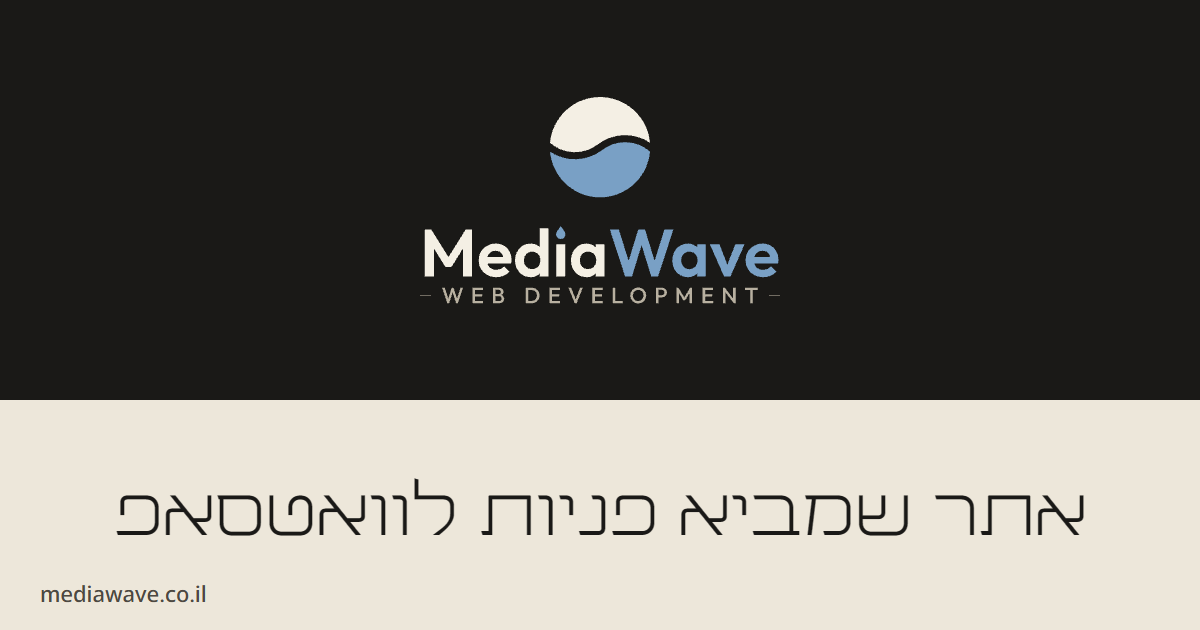
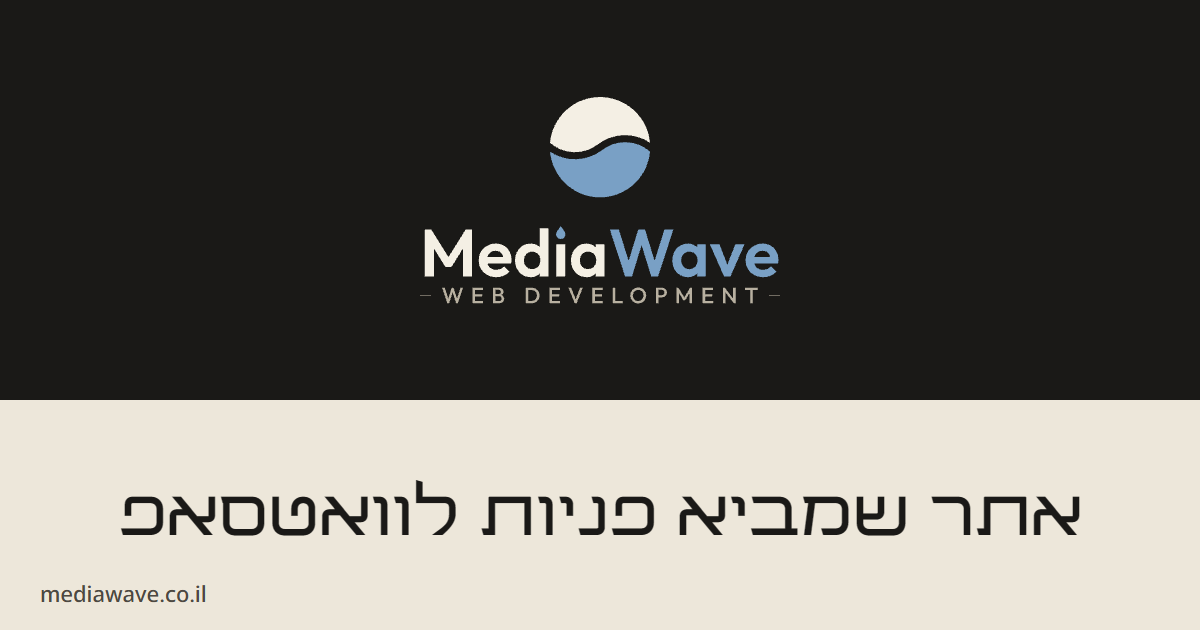
feat: the headings in the Bold of mediawave-font1 (D218)
Every heading moves from Regular to Bold, the preload and the Arial fallback
follow it, and the footer line drops its Thin cut.

Changed region(s): [[0.0925, 0.754, 0.925, 0.8444]]

diff --git a/src/look/shot/shot-fonts.css b/src/look/shot/shot-fonts.css
@@ -12,8 +12,8 @@
 @font-face { font-family: "mediawave-font1"; src: url("/fonts/mediawave-font1-Thin.woff2") format("woff2"); font-weight: 100; font-display: swap; size-adjust: 83%; unicode-range: U+0020-0022, U+0025, U+0027-003B, U+003F, U+0041-005A, U+0061-007A, U+00A0, U+05BE, U+05D0-05EA, U+05F3-05F4, U+200E-200F, U+2013-2014, U+2018-2019, U+201C-201D, U+2026, U+20AA; }
 @font-face { font-family: "mediawave-font1"; src: url("/fonts/mediawave-font1-Regular.woff2") format("woff2"); font-weight: 400; font-display: swap; size-adjust: 83%; unicode-range: U+0020-0022, U+0025, U+0027-003B, U+003F, U+0041-005A, U+0061-007A, U+00A0, U+05BE, U+05D0-05EA, U+05F3-05F4, U+200E-200F, U+2013-2014, U+2018-2019, U+201C-201D, U+2026, U+20AA; }
 @font-face { font-family: "mediawave-font1"; src: url("/fonts/mediawave-font1-Bold.woff2") format("woff2"); font-weight: 700; font-display: swap; size-adjust: 83%; unicode-range: U+0020-0022, U+0025, U+0027-003B, U+003F, U+0041-005A, U+0061-007A, U+00A0, U+05BE, U+05D0-05EA, U+05F3-05F4, U+200E-200F, U+2013-2014, U+2018-2019, U+201C-201D, U+2026, U+20AA; }
-/* Arial scaled to the face's measured Hebrew advance on the home headings (1.339 x 83%), so the swap moves no line. */
-@font-face { font-family: "mediawave-font1 Fallback"; src: local("Arial"), local("ArialMT"); font-weight: 100 900; size-adjust: 111.2%; ascent-override: 70.2%; descent-override: 22.4%; line-gap-override: 0%; unicode-range: U+0020-0022, U+0025, U+0027-003B, U+003F, U+0041-005A, U+0061-007A, U+00A0, U+05BE, U+05D0-05EA, U+05F3-05F4, U+200E-200F, U+2013-2014, U+2018-2019, U+201C-201D, U+2026, U+20AA; }
+/* Arial Bold scaled to the Bold's measured Hebrew advance on the home headings (1.302 x 83%), so the swap moves no line. */
+@font-face { font-family: "mediawave-font1 Fallback"; src: local("Arial Bold"), local("Arial-BoldMT"); font-weight: 100 900; size-adjust: 108.1%; ascent-override: 72.2%; descent-override: 23.0%; line-gap-override: 0%; unicode-range: U+0020-0022, U+0025, U+0027-003B, U+003F, U+0041-005A, U+0061-007A, U+00A0, U+05BE, U+05D0-05EA, U+05F3-05F4, U+200E-200F, U+2013-2014, U+2018-2019, U+201C-201D, U+2026, U+20AA; }
 
 @font-face { font-family: "MW Noto Fallback"; src: local("Arial"), local("ArialMT"); font-weight: 100 599; size-adjust: 104.6%; ascent-override: 102.1%; descent-override: 27.9%; line-gap-override: 0%; }
 @font-face { font-family: "MW Noto Fallback"; src: local("Arial"), local("ArialMT"); font-weight: 100 599; size-adjust: 109.1%; ascent-override: 97.9%; descent-override: 26.8%; line-gap-override: 0%; unicode-range: U+0590-05FF, U+200C-2010, U+20AA, U+25CC, U+FB1D-FB4F; }

diff --git a/src/look/sea/sea.css b/src/look/sea/sea.css
@@ -30,13 +30,13 @@
 .sea-h2 { font-size: clamp(40px, 10.6vw, 120px); }
 .sea-h3 { font-size: clamp(34px, 8.4vw, 72px); }
 @media (min-width: 1100px) {
-  .sea-h1 { font-size: min(8.2vw, 132px); }
+  .sea-h1 { font-size: min(7.7vw, 132px); }
   .sea-h2 { font-size: min(7vw, 112px); }
   .sea-h3 { font-size: min(4.6vw, 72px); }
 }
 /* the longest line on the page, in the wide face: it stays on one line beside the laptop */
-.sea-web .sea-h2 { font-size: clamp(30px, 8.9vw, 120px); }
-@media (min-width: 1100px) { .sea-web .sea-h2 { font-size: min(5.4vw, 81px); } }
+.sea-web .sea-h2 { font-size: clamp(29px, 8.7vw, 120px); }
+@media (min-width: 1100px) { .sea-web .sea-h2 { font-size: min(5.2vw, 78px); } }
 .sea-sub { margin: 0; max-width: 34ch; font-size: 17px; line-height: 1.65; color: #a39d90; text-wrap: pretty; text-shadow: var(--sea-halo); }
 .sea-row { display: grid; gap: 18px; justify-items: start; width: 100%; }
 @media (min-width: 1100px) { .sea-row { grid-template-columns: minmax(0, 1fr) auto; align-items: end; } }
@@ -200,7 +200,7 @@ html.sea-held .sea-deck { display: flex; }
   html.sea-held .sea-svc__item.is-on, html.sea-held .sea-svc__item:focus-within { opacity: 1; transform: none; pointer-events: auto; }
   html.sea-held .sea-svc__item:focus-within:not(.is-on) { z-index: 2; background: #0f1011; }
   html.sea-held .sea-svc__row { grid-template-columns: minmax(0, 1fr) 24px; grid-template-areas: "n go" "title title" "line line" "deck deck"; padding-block: 16px 0; row-gap: 10px; border-top: 1px solid var(--sea-rule); }
-  html.sea-held .sea-svc__title { font-size: clamp(30px, 8.8vw, 64px); line-height: 0.98; }
+  html.sea-held .sea-svc__title { font-size: clamp(25px, 7.8vw, 64px); line-height: 0.98; }
   html.sea-held .sea-svc__line { font-size: 17px; }
   html.sea-held .sea-svc__go { align-self: start; }
   html.sea-held .sea-deck { justify-content: flex-start; }

diff --git a/src/look/sea/sea-site.css b/src/look/sea/sea-site.css
@@ -383,7 +383,7 @@ html[data-look="shot"] .sea-contact .ct__ico :is(.dot-glyph, .wa-dots, svg) { wi
 .qs__dots i.f { background: #ede7da; }
 @keyframes qs-in { from { opacity: 0; transform: translateY(14px); } to { opacity: 1; transform: none; } }
 html:not(.disable-animations):not(.motion-reduced) .qs__q { animation: qs-in 0.45s var(--sea-ease, cubic-bezier(0.16, 1, 0.3, 1)) both; }
-.qs__label { display: block; margin: 0 0 22px; font: 400 clamp(36px, 9.6vw, 56px)/1.05 var(--display); color: #ede7da; text-align: start; text-wrap: balance; }
+.qs__label { display: block; margin: 0 0 22px; font: var(--display-w) clamp(36px, 9.6vw, 56px)/1.05 var(--display); color: #ede7da; text-align: start; text-wrap: balance; }
 .qs__label small { display: block; margin-top: 12px; font: 500 16px/1.5 var(--text); color: #a39d90; }
 html[data-look="shot"] .sea-contact #contact .qs__field {
   --ul: #6f6a60;
@@ -817,5 +817,3 @@ html:is(.disable-animations, .motion-reduced) :is(.key__ink, .btn-br) { transiti
 
 /* (D200 audit) the skip link, when a keyboard focuses it: ink on cream (it was white on light sky) */
 html[data-look="shot"] a[href="#main-content"]:focus { background: #ede7da !important; color: #0f1011 !important; outline: 2px solid #ede7da; outline-offset: 3px; }
-/* the closing line, on the page's quiet ground: the Thin cut, where it is large enough to hold (D218) */
-@media (min-width: 768px) { html[data-look="shot"] .sea-foot__line { font-weight: 100; } }

diff --git a/src/look/looks.css b/src/look/looks.css
@@ -176,7 +176,7 @@ html[data-look="shot"] {
   --lens: #ede7da;
   --err: var(--ink);                    /* [לבירור: נתי] red #b3261e only if Nati rules for it; the error is never colour-only */
   --display: "mediawave-font1", "mediawave-font1 Fallback", "MW Noto", "MW Noto Fallback", sans-serif;
-  --display-w: 400;
+  --display-w: 700;
   --text: "MW Noto", "MW Noto Fallback", sans-serif;
   --ui: "MW Noto", "MW Noto Fallback", sans-serif;
   --ui-w: 700;

diff --git a/DESIGN.md b/DESIGN.md
@@ -16,7 +16,7 @@ colors:
 typography:
   display:
     fontFamily: "mediawave-font1 (the studio's own wide face, Hebrew + Latin), Arial metric-matched fallback, then MW Noto"
-    fontWeight: 400
+    fontWeight: 700
     lineHeight: 1.02-1.2
   body:
     fontFamily: "MW Noto"
@@ -54,7 +54,7 @@ A gallery on cream. One thin Prussian line, the wave of the Horizon logo, runs f
 | rule | ink at 16% | hairlines between rows |
 | credits | ink ground, cream type | the footer only |
 
-Type: headings in mediawave-font1 Regular (D218; H1 12.4vw on phones, 60-96px from 1100px; H2 10.5vw to 96px); text in Noto Sans Hebrew 400, 17px, 1.7; chapter numbers in a mono face, Latin digits.
+Type: headings in mediawave-font1 Bold (D218; H1 12.4vw on phones, 60-96px from 1100px; H2 10.5vw to 96px); text in Noto Sans Hebrew 400, 17px, 1.7; chapter numbers in a mono face, Latin digits.
 
 ## Motion (D125)
 One clock (`clock.ts`): native scroll, eased once for the page, each part eased again toward its own target, fixed ratios. One requestAnimationFrame loop, only while something moves. Still mode (OS reduced motion, the widget's stop switch, `?reduce=1`, the prerender, no JS): every part at its last frame. The pre-paint class `html.shot-dive` (index.html) shows the shut laptop until the first geared frame.
@@ -100,7 +100,7 @@ Shadows are ink at an alpha (`--paper-shadow`). No gradients, glow or glass. Err
 
 ## 3. Typography (D81)
 
-Two families (`src/look/shot/shot-fonts.css`), each with a metric-matched Arial fallback. Headings: mediawave-font1 Regular, the studio's own face (D218, source in `fonts/mediawave-font1`); Thin only on large lines over a quiet ground, never over video. Text 400 and UI 700: Noto Sans Hebrew (variable, self-hosted in `public/fonts/noto/`). Hebrew rules: no letter-spacing, no italics, no en or em dash or maqaf in copy, no hyphen where words can carry the meaning ("2 עד 3 שבועות", "בחיפושי AI").
+Two families (`src/look/shot/shot-fonts.css`), each with a metric-matched Arial fallback. Headings: mediawave-font1 Bold, the studio's own face (D218, source in `fonts/mediawave-font1`). Text 400 and UI 700: Noto Sans Hebrew (variable, self-hosted in `public/fonts/noto/`). Hebrew rules: no letter-spacing, no italics, no en or em dash or maqaf in copy, no hyphen where words can carry the meaning ("2 עד 3 שבועות", "בחיפושי AI").
 
 ## 4. Motion (D83, SPEC 1.4-1.7)
 

diff --git a/DECISIONS.rtl.md b/DECISIONS.rtl.md
@@ -459,8 +459,8 @@
 ## הפונט שלנו: mediawave-font1 (8.11.2026), ענף feature/mediawave-font1
 
 - **D218 · כל הכותרות באתר עוברות לפונט של הסטודיו.** פונט רחב שצויר מאפס: עברית, אנגלית A-Z ו-a-z, ספרות, פיסוק ושקל, בשלושה משקלים (Thin, Regular, Bold), כ-6KB למשקל. המקור ב-`fonts/mediawave-font1`, הבנייה ב-`python fonts/mediawave-font1/build.py`.
-  - **מה השתנה:** `--display` של מראה shot עבר מ-Noto במשקל 800 ברוחב 75% ל-mediawave-font1 Regular. טקסט רץ, כפתורים ושדות נשארים ב-Noto. אנגלית שאין לה אות בפונט נופלת ל-Noto.
-  - **Regular מעל הווידאו ומעל הים, Thin רק בשורת הסיום בתחתית העמוד ומ-768 פיקסלים ומעלה.** Thin מעל וידאו לא קריא מספיק, בעיקר בטלפון, גם כשהניגוד עובר AA.
+  - **מה השתנה:** `--display` של מראה shot עבר מ-Noto במשקל 800 ברוחב 75% ל-mediawave-font1 Bold (נתי, 9.11.2026, אחרי שהתחיל ב-Regular). טקסט רץ, כפתורים ושדות נשארים ב-Noto. אנגלית שאין לה אות בפונט נופלת ל-Noto.
+  - **כל הכותרות ב-Bold.** Thin ו-Regular נשארים בקבצים ולא משמשים באתר. Thin מעל וידאו לא קריא מספיק, בעיקר בטלפון, גם כשהניגוד עובר AA.
   - **התאמה:** הפונט רחב, אז `size-adjust: 83%` מרכז את כל הכותרות במקום אחד, והשורה הארוכה בעמוד ("אתר שנבנה בשבילכם,") קיבלה גודל משלה. פולבק Arial מכויל למידות הפונט, והמשקל של ה-H1 נטען מראש.
   - **נשאר בחוץ בכוונה:** בלי hinting (פונט תצוגה), הלוגו לא נגע, ותוויות המיקרו באנגלית נשארות במונו.
   - **חוקי:** צויר מאפס. Leon שימש השראה לז׳אנר בלבד, בלי קריאה או מדידה של קווי המתאר שלו. בישראל גופן מוגן בזכות יוצרים.
